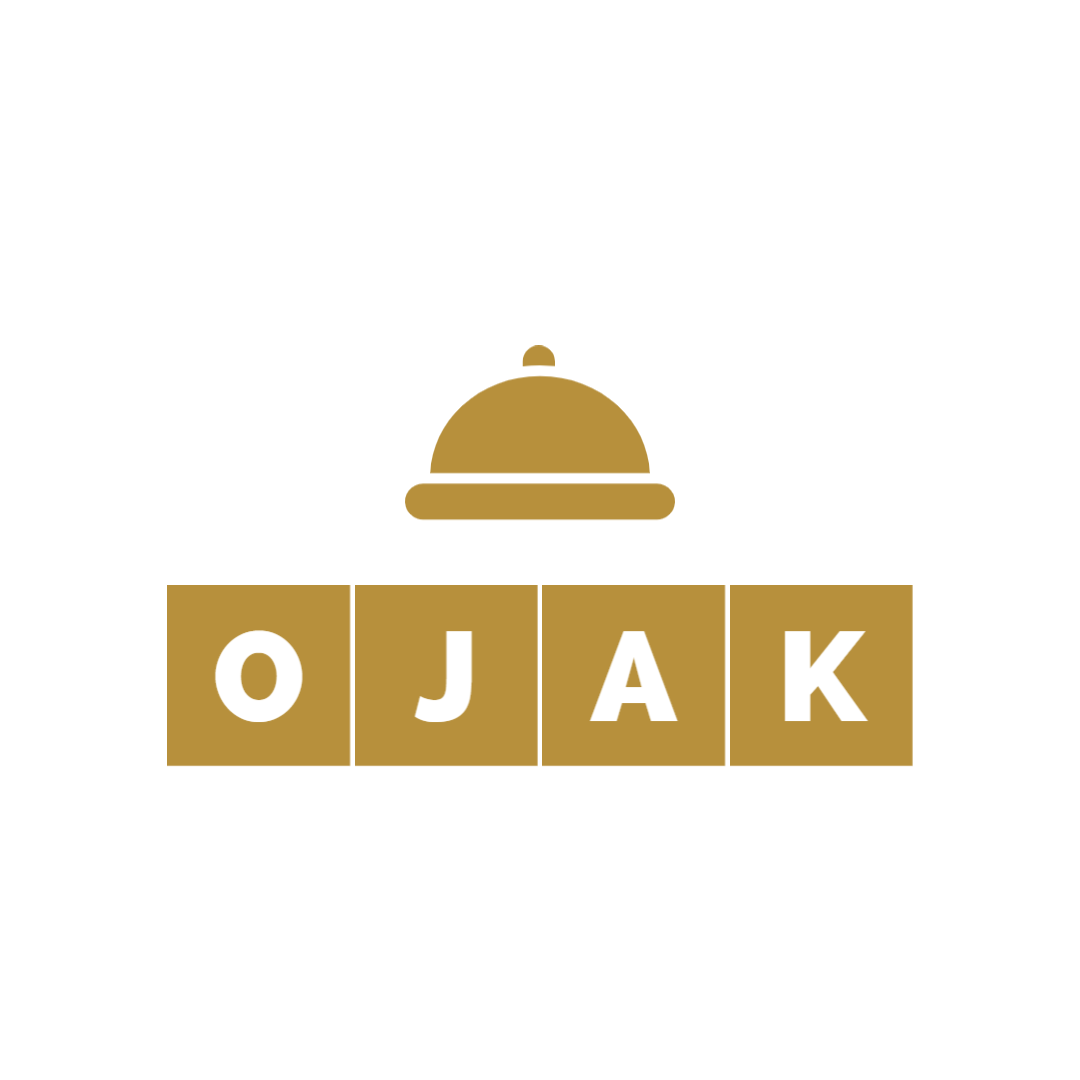
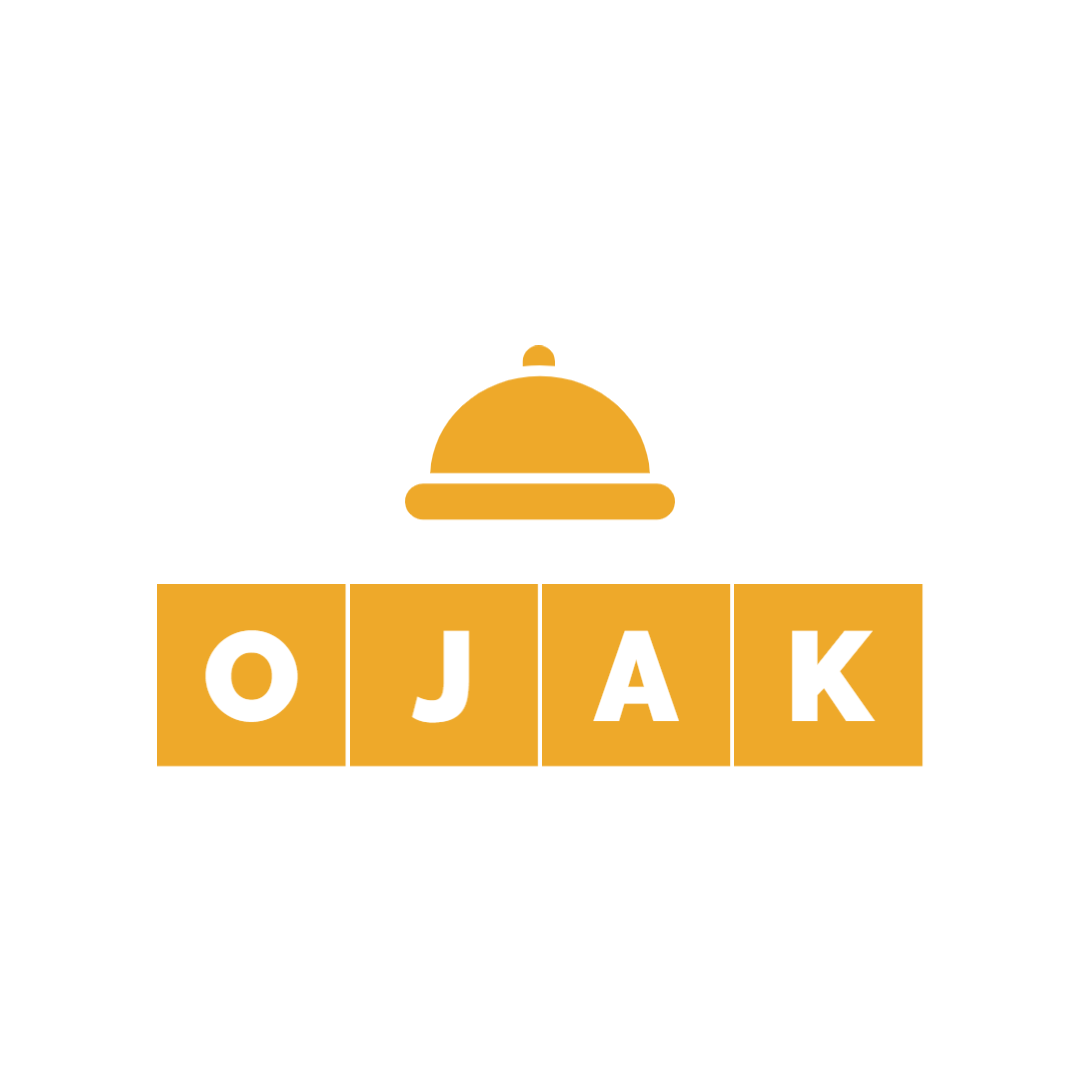
added order page w/ styles

Changed region(s): [[0.1222, 0.5194, 0.8556, 0.7333], [0.3667, 0.3056, 0.6417, 0.4889]]

diff --git a/pages/order/[id].jsx b/pages/order/[id].jsx
@@ -1,0 +1,122 @@
+import Image from 'next/image';
+import styles from '../../styles/Order.module.css';
+
+const Order = () => {
+  const status = 0;
+  const statusHandler = (index) => {
+    if (index - status < 1) return styles.done;
+    else if (index - status === 1) return styles.progress;
+    else return styles.incomplete;
+  };
+
+  return (
+    <div className={styles.container}>
+      <div className={styles.left}>
+        <div className={styles.row}>
+          <table className={styles.table}>
+            <thead>
+              <tr>
+                <th>Order ID</th>
+                <th>Customer</th>
+                <th>Address</th>
+                <th>Total</th>
+              </tr>
+            </thead>
+            <tbody className={styles.tbody}>
+              <tr>
+                <td>
+                  <span className={styles.id}>071812394</span>
+                </td>
+                <td>
+                  <span className={styles.name}>Omar Hayyam</span>
+                </td>
+                <td>
+                  <span className={styles.address}>
+                    4517 W Bromwich Albion, London
+                  </span>
+                </td>
+                <td>
+                  <span className={styles.total}>$23.60</span>
+                </td>
+              </tr>
+            </tbody>
+          </table>
+        </div>
+        <div className={styles.row}>
+          <div className={statusHandler(0)}>
+            <Image src="/images/paid.png" width="30px" height="30px" alt="" />
+            <span>Payment</span>
+            <div className={styles.icon}>
+              <Image
+                src="/images/checked.png"
+                width="20px"
+                height="20px"
+                alt=""
+              />
+            </div>
+          </div>
+          <div className={statusHandler(1)}>
+            <Image src="/images/bake.png" width="30px" height="30px" alt="" />
+            <span>Baking</span>
+            <div className={styles.icon}>
+              <Image
+                src="/images/checked.png"
+                width="20px"
+                height="20px"
+                alt=""
+              />
+            </div>
+          </div>
+          <div className={statusHandler(2)}>
+            <Image src="/images/bike.png" width="30px" height="30px" alt="" />
+            <span>On the way</span>
+            <div className={styles.icon}>
+              <Image
+                src="/images/checked.png"
+                width="20px"
+                height="20px"
+                alt=""
+              />
+            </div>
+          </div>
+          <div className={statusHandler(3)}>
+            <Image
+              src="/images/delivered.png"
+              width="30px"
+              height="30px"
+              alt=""
+            />
+            <span>Delivered</span>
+            <div className={styles.icon}>
+              <Image
+                src="/images/checked.png"
+                width="20px"
+                height="20px"
+                alt=""
+              />
+            </div>
+          </div>
+        </div>
+      </div>
+      <div className={styles.right}>
+        <div className={styles.wrapper}>
+          <h2 className={styles.cartTitle}>ORDER TOTAL</h2>
+          <div className={styles.totalText}>
+            <b className={styles.totalTextTitle}>Subtotal: </b>$23.60
+          </div>
+          <div className={styles.totalText}>
+            <b className={styles.totalTextTitle}>Discount: </b>$0.00
+          </div>
+          <div className={styles.totalText}>
+            <b className={styles.totalTextTitle}>Total: </b>$23.60
+          </div>
+          <button disabled className={styles.button}>
+            PAID
+          </button>
+        </div>
+      </div>
+    </div>
+  );
+};
+
+export default Order;

diff --git a/styles/Order.module.css b/styles/Order.module.css
@@ -1,0 +1,99 @@
+.container {
+    height: calc(100vh - 380px);
+    padding: 50px;
+    display: flex;
+}
+
+.left {
+    flex: 2;
+}
+
+.right {
+    flex: 1;
+}
+
+.wrapper {
+    width: 90%;
+    max-height: 300px;
+    background-color: #444;
+    padding: 30px;
+    padding-top: 10px;
+    display: flex;
+    flex-direction: column;
+    justify-content: space-between;
+    color: #eee;
+    margin-top: 20px;
+    box-shadow: inset 1px 1px 1px 2px #fff;
+}
+
+.totalTextTitle {
+    margin-right: 10px;
+    
+}
+
+
+.totalText {
+    margin-bottom: 5px;
+}
+
+.button {
+    color: teal;
+    background-color: #fff;
+    height: 35px;
+    cursor: not-allowed;
+    font-size: 15px;
+    font-weight: 800;
+    margin-top: 20px;
+    border: 1px solid #ddd !important;
+    border-radius: 2px;
+    text-shadow: -1px 0 white, 0 1px white, 1px 0 white, 0 -1px white;
+}
+
+.cartTitle {
+    text-align: center;
+}
+
+.table {
+    width: 100%;
+    text-align: left;
+    margin-bottom: 50px;
+}
+
+.row:last-child {
+    width: 70%;
+    display: flex;
+    justify-content: space-between;
+}
+
+.done {
+    display: flex;
+    flex-direction: column;
+    align-items: center;
+}
+
+.progress {
+    display: flex;
+    flex-direction: column;
+    align-items: center;
+    animation: inProgress 1s ease-in-out infinite alternate;
+}
+
+@keyframes inProgress {
+    from {
+        opacity: 0.2;
+    }
+    to {
+        opacity: 1;
+    }
+}
+
+.incomplete {
+    display: flex;
+    flex-direction: column;
+    align-items: center;
+    opacity: 0.3;
+}
+
+.incomplete .icon , .progress .icon {
+    display: none;
+}

diff --git a/styles/Header.module.css b/styles/Header.module.css
@@ -1,8 +1,5 @@
 .container {
-    background: #D1913C;  /* fallback for old browsers */
-    background: -webkit-linear-gradient(to right,#D1913C, #FFD194 );  /* Chrome 10-25, Safari 5.1-6 */
-    background: linear-gradient(to right,#D1913C, #FFD194 ); /* W3C, IE 10+/ Edge, Firefox 16+, Chrome 26+, Opera 12+, Safari 7+ */
-    
+    background-color: #444444;  
     height: 120px;
     padding: 0px 50px;
     display: flex;
@@ -11,6 +8,7 @@
     position: sticky;
     top: 0;
     z-index: 999;
+   
 }
 
 .item {
@@ -39,7 +37,7 @@
 
 .texts {
     margin-left: 20px;
-    color: white;
+    color: #eea92a;
 }
 
 .text:first-child {
@@ -57,7 +55,7 @@
     display: flex;
     align-items: center;  
     list-style: none;
-    color: #fff;
+    color: #eee;
 }
 
 .listItem {

diff --git a/styles/Slider.module.css b/styles/Slider.module.css
@@ -1,9 +1,6 @@
 .container {
     height: calc(100vh - 120px);
-    /* background-color: #b7903c; */
-    background: #D1913C;  /* fallback for old browsers */
-    background: -webkit-linear-gradient(to right,#D1913C, #FFD194 );  /* Chrome 10-25, Safari 5.1-6 */
-    background: linear-gradient(to right,#D1913C, #FFD194 ); /* W3C, IE 10+/ Edge, Firefox 16+, Chrome 26+, Opera 12+, Safari 7+ */
+    background-color: #eea92a;            
     overflow: hidden;
 }
 

diff --git a/styles/Footer.module.css b/styles/Footer.module.css
@@ -1,6 +1,6 @@
 .container {
-    height: 240px;
-    background-color: rgb(50, 48, 48);
+    height: 260px;
+    background-color: #444444;
     display: flex;
 }
 
@@ -12,15 +12,15 @@
 
 .title {
     font-size: 18px;
-    color: #D1913C;
+    color: #eea92a;
 }
 
 .text {
-    color: lightgray;
+    color: #eee;
 }
 
 .icon {
-    color: lightgray;
+    color: #eee;
     max-width: 30px;
     max-height: 30px;
     margin: 20px 0;

diff --git a/styles/ProductCard.module.css b/styles/ProductCard.module.css
@@ -8,14 +8,14 @@
 }
 
 .image {
-    border: 1px solid #b7903c !important;
+    border: 1px solid #eea92a !important;
     border-radius: 2px; 
 }
 
 .title {
     font-size: 18px;
     font-weight: bold;
-    color: #b7903c;
+    color: #eea92a;
     font-family:'Lucida Sans', 'Lucida Sans Regular', 'Lucida Grande', 'Lucida Sans Unicode', Geneva, Verdana, sans-serif;
 }
 

diff --git a/components/Header.jsx b/components/Header.jsx
@@ -7,7 +7,7 @@ const Header = () => {
       <div className={styles.item}>
         <div className={styles.callBtn}>
           <Image
-            src="/images/telephone.png"
+            src="/images/callBtn.png"
             alt="call button"
             width="32"
             height="32"

diff --git a/styles/ProductList.module.css b/styles/ProductList.module.css
@@ -8,7 +8,7 @@
 
 .description {
     font-size: 24px;
-    color: #b7903c;
+    color: #444444;
     width: 70%;
     text-align: center;
     font-style: italic;

diff --git a/styles/Cart.module.css b/styles/Cart.module.css
@@ -86,5 +86,4 @@
 
 .cartTitle {
     text-align: center;
-    
 }
